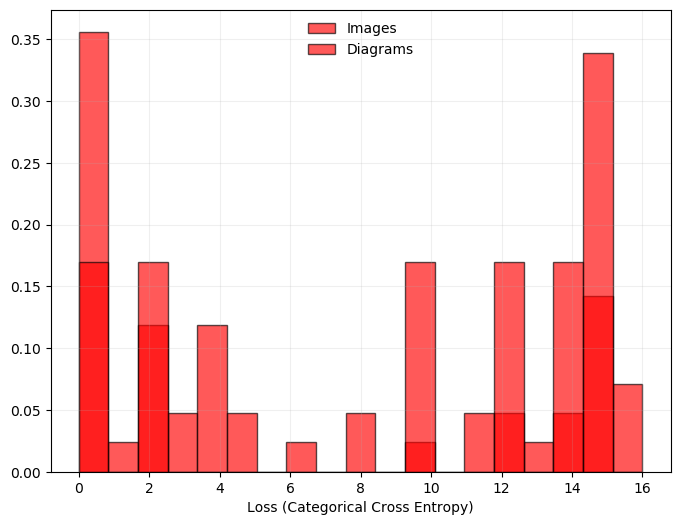
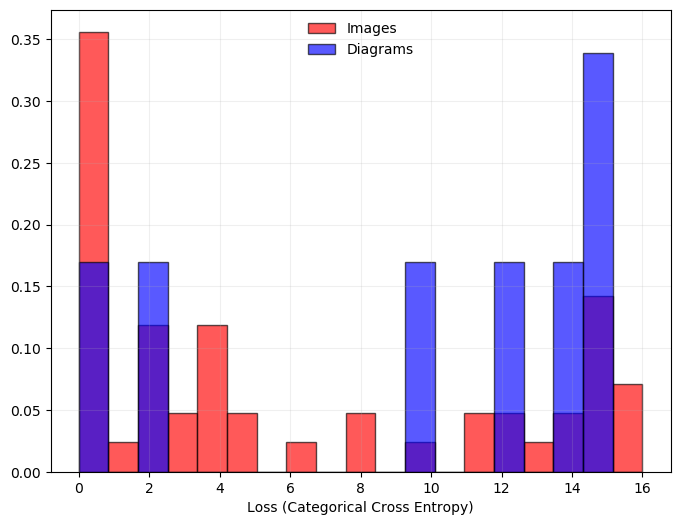
fixed color of plot

diff --git a/supervised/evaluate_diagrams.py b/supervised/evaluate_diagrams.py
@@ -37,7 +37,7 @@ def plot_loss(data, name):
         data[data['label_y'] == 1]['loss'],
         bins=np.linspace(0,16,20),
         edgecolor='k',
-        color='red',
+        color='blue',
         label='Diagrams',
         normed=True,
         alpha=0.65
